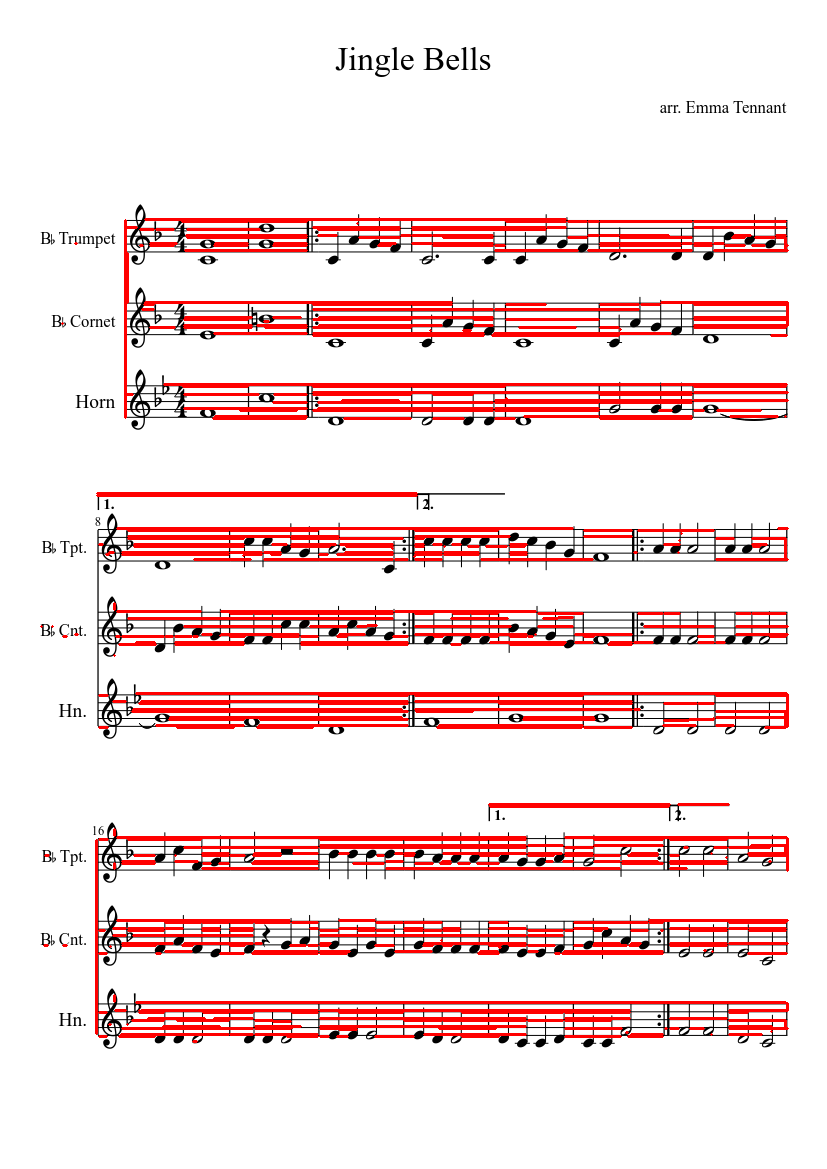
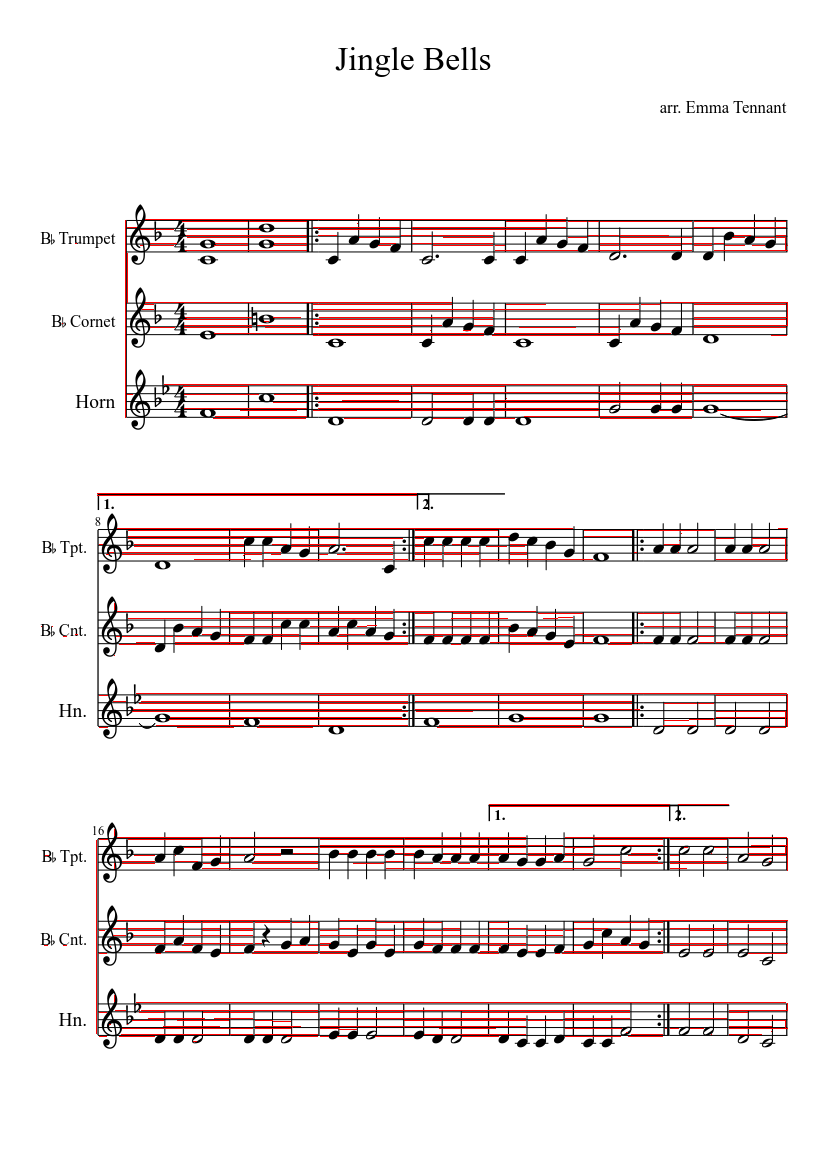
Cleans up note detection.

diff --git a/midify.py b/midify.py
@@ -1,41 +1,53 @@
 import cv2
 import numpy as np
-from test import staffLines
+from test import staffLines, detectNotes
 from os.path import join, splitext
 
 
 IMGPATH = 'data/images/'
-WHITE = 200
-BLACK = 100
 
 
 if __name__ == '__main__':
 
+    """ Open image and basic information """
     img_name = 'score_3.png'
     img = cv2.imread(join(IMGPATH, img_name))
     img_c = img.copy()
+    img_c_2 = img.copy()
     img_size = img.shape[:2]
 
+    """ Conversion to Black-and-White for detection """
     img_gray = cv2.cvtColor(img, cv2.COLOR_BGR2GRAY)
     thresh = 150
     img_bw = cv2.threshold(img_gray, thresh, 255, cv2.THRESH_BINARY)[1]
 
+    """ Rough Hough Line detection """
     edges = cv2.Canny(img_bw, 50, 150, apertureSize=3)
     p_lines = cv2.HoughLinesP(edges, 1, np.pi / 180, 150, 100, 0, 0)
     for line in p_lines:
         for x1, y1, x2, y2 in line:
-            cv2.line(img, (x1, y1), (x2, y2), (0, 0, 255), 2)
+            cv2.line(img, (x1, y1), (x2, y2), (0, 0, 255), 1)
 
     cv2.imwrite(join(IMGPATH, splitext(img_name)[0] + '_lines_1.png'), img)
 
-    #print(len(p_lines))
-    p_lines, min_x, max_x = staffLines(p_lines)
-    print(len(p_lines))
+    """ Filtering of lines """
+    y_vals, min_x, max_x = staffLines(p_lines)
+    filtered_lines = list()
 
-    for line in p_lines:
-        cv2.line(img_c, (min_x, line), (max_x, line), (0, 0, 255), 2)
+    for y in y_vals:
+        filtered_lines.append([y, min_x, y, max_x])
+        cv2.line(img_c, (min_x, y), (max_x, y), (0, 0, 255), 1)
 
-        cv2.imwrite(join(IMGPATH, splitext(img_name)[0] + '_lines_2.png'), img_c)
+    cv2.imwrite(join(IMGPATH, splitext(img_name)[0] + '_lines_2.png'), img_c)
+
+    """ Detection of notes on lines """
+    window = filtered_lines[1][0] - filtered_lines[0][0]
+    origins = list()
+    for line in filtered_lines:
+        line_origins, img_c_2 = detectNotes(img_c_2, line, window)
+        origins.extend(list(line_origins))
+
+    cv2.imwrite(join(IMGPATH, splitext(img_name)[0] + '_lines_3.png'), img_c_2)
 
     # y = 0
     # while y < img_size[0] - 10:

diff --git a/test.py b/test.py
@@ -5,6 +5,9 @@ THRESHHOLD = 5
 DISTANCE = 100
 DIST_BETWEEN_BARS = 20
 
+WHITE = 200
+BLACK = 45
+
 def staffLines(_plines):
 	plines = _plines.tolist()
 	plines.sort(key=lambda x: x[0][1])
@@ -48,6 +51,35 @@ def staffLines(_plines):
 			i+=1
 
 	return lines, min_x, max_x
+
+
+def detectNotes(_img, _line, window=10):
+	note_origins = list()
+	img = _img.copy()
+	half = int(round(window / 2))
+
+	x = _line[1]
+	while x < _line[3] - window:
+		color = 0
+		for x2 in range(x, x + window):
+			for y in range(_line[0] - half, _line[0] + half):
+				pixel_color = img[y, x2][0]
+				if pixel_color < 200:
+					color += 0
+				else:
+					color += 255
+		color /= 100
+		if color >= 200:
+			x += 5
+		elif color <= BLACK:
+			img[_line[0] - half, x] = [0, 0, 255]
+			img[_line[0] + half, x] = [0, 255, 0]
+			note_origins.append([y, x])
+
+		x += 1
+
+	return note_origins, img
+
 
 def writeMIDI(fileName, notes):
 	
